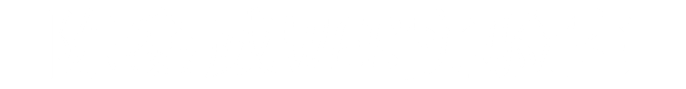
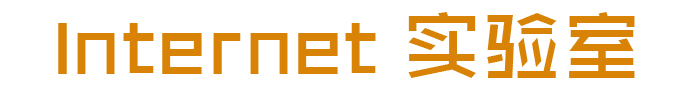
lab

Changed region(s): [[0.0612, 0.2472, 0.551, 0.8315], [0.5816, 0.1348, 0.949, 0.8764]]

diff --git a/Robotkang Lab/index.html b/Robotkang Lab/index.html
@@ -9,8 +9,8 @@
     <meta name="renderer" content="webkit">
     <meta http-equiv="Cache-Control" content="no-siteapp">
     
-    <meta name="description" content="陈鑫威网页实验室用于陈列一些陈鑫威博客原创作品、收集的一些网页特效，以及其它的好玩的内容">
-    <meta name="keywords" content="陈鑫威,陈鑫威网页实验室,陈鑫威实验室,MKOnlinePlayer,陈鑫威博客">
+    <meta name="description" content="实验室用于陈列一些好玩的内容">
+    <meta name="keywords" content="robotkang,实验室,博客">
     
     <title>Robotkang实验室</title>
     
@@ -44,7 +44,7 @@
     
     <div class="welcome">
         <p>— 欢迎访问 —</p>
-        <img class="web-title" src="http://lab.iav6.cn/index/img/web_title.png" alt="陈鑫威 Web 实验室" draggable="false" onerror="onerror=null;src=&#39;https://ws1.sinaimg.cn/large/a15b4afegy1fj66lgod6gj20j202h0sv.jpg&#39;">
+        <img class="web-title" src="http://lab.iav6.cn/index/img/web_title.png" alt="Internet实验室" draggable="false" onerror="onerror=null;src=&#39;https://ws1.sinaimg.cn/large/a15b4afegy1fj66lgod6gj20j202h0sv.jpg&#39;">
     </div>
     
     <!--向下滚动提示-->
@@ -489,7 +489,7 @@
     </div>
     
     <div class="about-content">
-        <p>陈鑫威 Web 实验室用来陈列一些新鲜、好玩的 Html 作品。这些作品中，有一些是本人原创或改写的，
+        <p>Internet实验室用来陈列一些作品。这些作品中，有一些是本人原创或改写的，
         还有一些是别人的开源大作，但因其很有特色，值得学习玩味，因此也出现在这里。</p>
         
         <p>本人崇尚开源精神，因此“实验室”中大部分作品是开源的。

diff --git a/time machine/index.html b/time machine/index.html
@@ -37,7 +37,42 @@
 
 
 
+<div class="oneNode">
+			<!--左侧小球-->
+			<div class="check">
+				12
+			</div>
+			<div class="tag-boder">
+				<div class="tag">
+				</div>
+			</div>
+			<!--右侧内容-->
+			<div class="NodeDetail">
+				<!--上-->
+				<div class="NodeDetail-title">
+					<!--头像-->
+					<img src="img/headImg.jpg" />
+					<!--内容-->
+					<div class="details">
+						<h4>时光</h4>
+						<p >人与自然</p>
+					</div>
+				</div>
+				<!--中-->
+				<div class="NodeDetail-content">
+					<p>记忆，变成一条又弯又长的小巷，没有门，没有窗，只能拿着一把钥匙，敲着厚厚的墙</p>
+                                        <p>十年，时间过得好快。十年前，我还在读初中一年级，现在想想很多记忆都模糊了，只能说人在自然灾害面前是多么的无力，08年对于中国来说绝对是一个难忘的一年，那一年，发生了太多的事情了：雪灾、动乱、地震、奥运...对于地震，对于我们，逝者已矣生者如斯。</p>
+<p>对待生命，你不妨大胆一点，因为我们始终要失去它</p>
+				</div>
+				<!--下-->
+				<div class="NodeDetail-footer">
+					<span>2018-05-12 02:28 PM</span>
 
+				</div>
+			</div>
+		</div>
+	</div>
+</div>
 <div class="oneNode">
 			<!--左侧小球-->
 			<div class="check check-danger">
